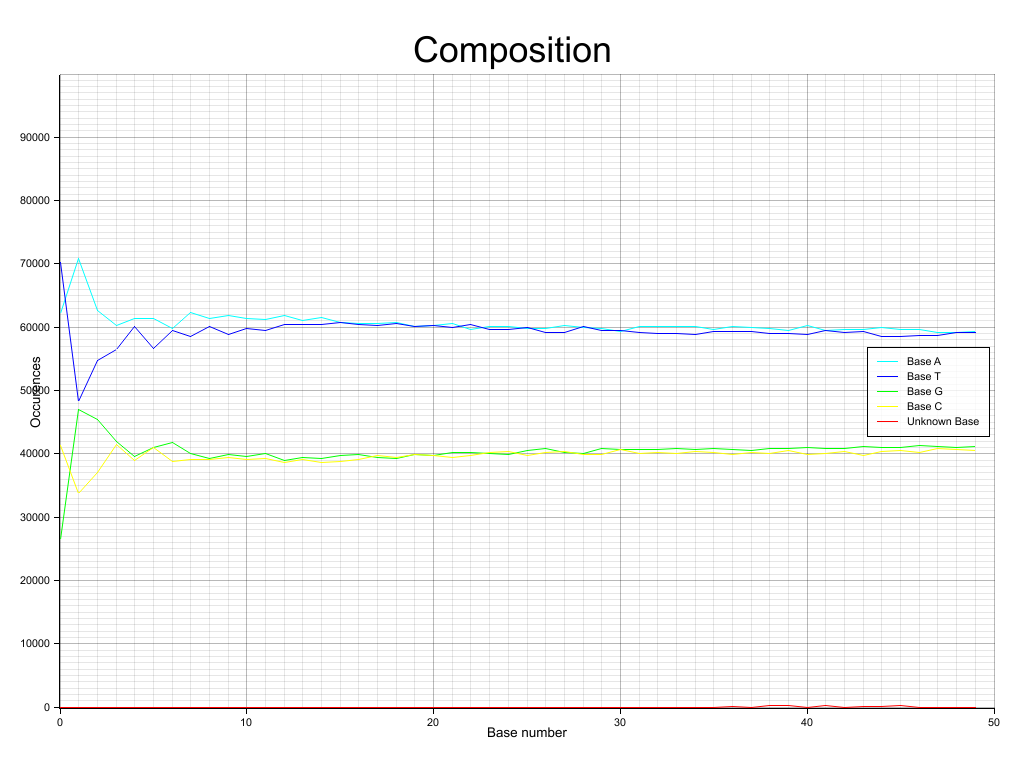
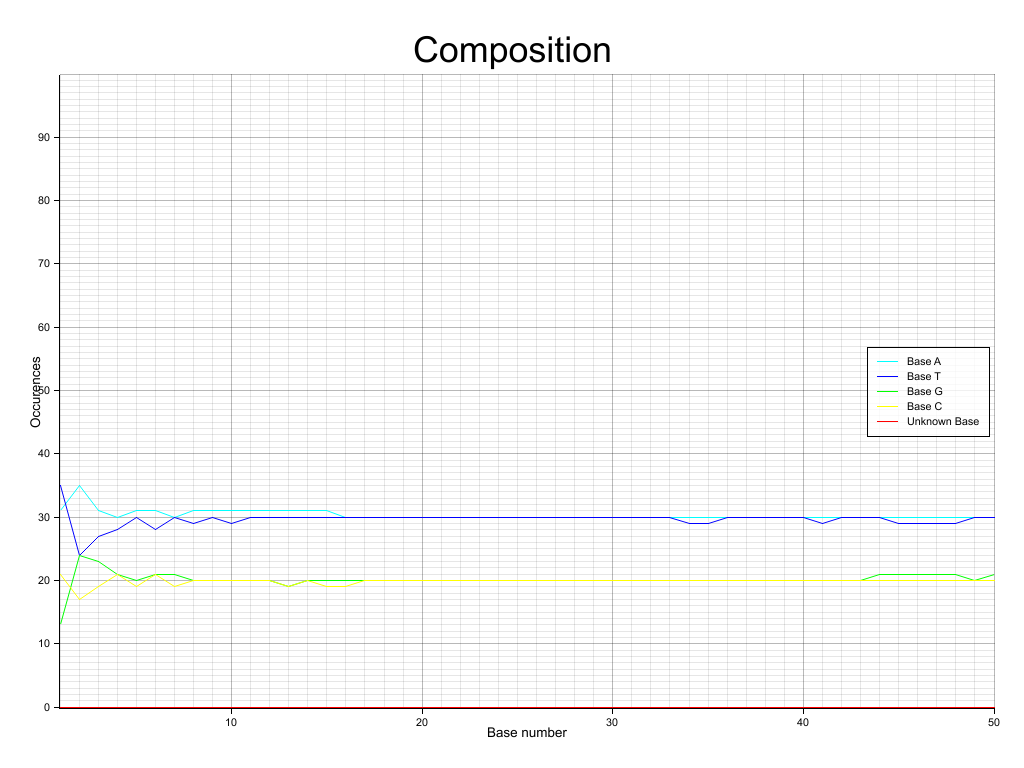
Implemented %age based plotting Fixed pos number to start from 1 instead of 0.

diff --git a/src/lib.rs b/src/lib.rs
@@ -63,9 +63,6 @@ pub mod fastq_io {
             for c in s.as_bytes().iter().zip(0..s.len()) {
                 comp[c.1].extract(c.0);
             }
-            for i in comp {
-                i.calc_percentage();
-            }
             true
         }
 
@@ -358,16 +355,22 @@ pub mod base_extraction {
             assert_eq!(read.N, 1);
         }
 
-        use crate::fastq_io;
         #[test]
-        fn test_base_extraction() {
-            let reader = fastq_io::test_utils::return_reader(b"AT\nGC\nNN\n");
+        fn test_percentage () {
+            assert_eq!(run_with_content(b"AA\nTA\nGA\nCA\nNA\n"),
+                std::str::from_utf8(br#"[{"pos":0,"A":20,"T":20,"G":20,"C":20,"N":20},{"pos":1,"A":100,"T":0,"G":0,"C":0,"N":0}]"#).unwrap())
+        }
+
+        use crate::fastq_io;
+   
+        fn run_with_content (content: &[u8]) -> String {
+            let reader = fastq_io::test_utils::return_reader(content);
             let mut writer = fastq_io::test_utils::return_writer();
 
             run(reader, &mut writer);
             let stringified = writer.get_ref()[0..].to_vec();
-            assert_eq!(std::str::from_utf8(&stringified).unwrap().to_string(),
-                std::str::from_utf8(br#"[{"pos":0,"A":1,"T":0,"G":1,"C":0,"N":1},{"pos":1,"A":0,"T":1,"G":0,"C":1,"N":1}]"#).unwrap())
+
+            std::str::from_utf8(&stringified).unwrap().to_string()
         }
     }
 
@@ -392,7 +395,7 @@ pub mod base_extraction {
     // Deriving Clone to allow easy initialization of Vec<Read>
     // pos included so multithreading will be easy since recieving program will be able to make sense of these
     // even if compositions arive out of order
-    #[derive(Serialize, Deserialize, Clone)]
+    #[derive(Serialize, Deserialize, Clone, Debug)]
     #[allow(non_snake_case)]
     pub struct Read {
         pub pos: usize,
@@ -420,12 +423,12 @@ pub mod base_extraction {
         }
 
         pub fn calc_percentage(&mut self) {
-            let sum = self.A + self.T + self.G + self.C + self.N;
-            self.A = ((self.A / sum) as f32 * 100.0).round() as u32;
-            self.T = ((self.T / sum) as f32 * 100.0).round() as u32;
-            self.G = ((self.G / sum) as f32 * 100.0).round() as u32;
-            self.C = ((self.C / sum) as f32 * 100.0).round() as u32;
-            self.N = ((self.N / sum) as f32 * 100.0).round() as u32;
+            let sum = (self.A + self.T + self.G + self.C + self.N) as f32;
+            self.A = ((self.A as f32 / sum) * 100.0).round() as u32;
+            self.T = ((self.T as f32 / sum) * 100.0).round() as u32;
+            self.G = ((self.G as f32 / sum) * 100.0).round() as u32;
+            self.C = ((self.C as f32 / sum) * 100.0).round() as u32;
+            self.N = ((self.N as f32 / sum) * 100.0).round() as u32;
         }
     }
     
@@ -444,6 +447,13 @@ pub mod base_extraction {
 
         //Read seqs into Read arr
         while Read::read(&mut comp, &mut reader){}
+        
+        //Convert raw numbers into %age and convert pos to start from 1
+        for c in comp.iter_mut() {
+            c.calc_percentage();
+            c.pos += 1;
+        }
+        write!(writer, "{}\n", serde_json::to_string(&comp.len()).unwrap()).unwrap();
         write!(writer, "{}", serde_json::to_string(&comp).unwrap()).unwrap();
     }
 }
@@ -475,6 +485,13 @@ pub mod plot_comp {
         let mut s = String::new();
         reader.read_line(&mut s).expect("Error reading line");
 
+        //Read x_len from first line
+        s = s.trim().to_string();
+        let x_len: usize = s.parse::<usize>().expect("Error reading max len, rerun extract-comp again");
+        s.clear();
+
+        //Read next line
+        reader.read_line(&mut s).expect("Error reading line");
         let comp: Vec<Read> = serde_json::from_str(&s).expect("Error converting JSON to data");
 
         //Set up plotting logic
@@ -488,7 +505,7 @@ pub mod plot_comp {
             .y_label_area_size(30)
             .margin(30)
             // Finally attach a coordinate on the drawing area and make a chart context
-            .build_cartesian_2d(0u32..100u32, 0u32..100u32)?;
+            .build_cartesian_2d(1u32..x_len as u32, 0u32..100u32)?;
 
         chart.configure_mesh()
             .x_desc("Base number")
